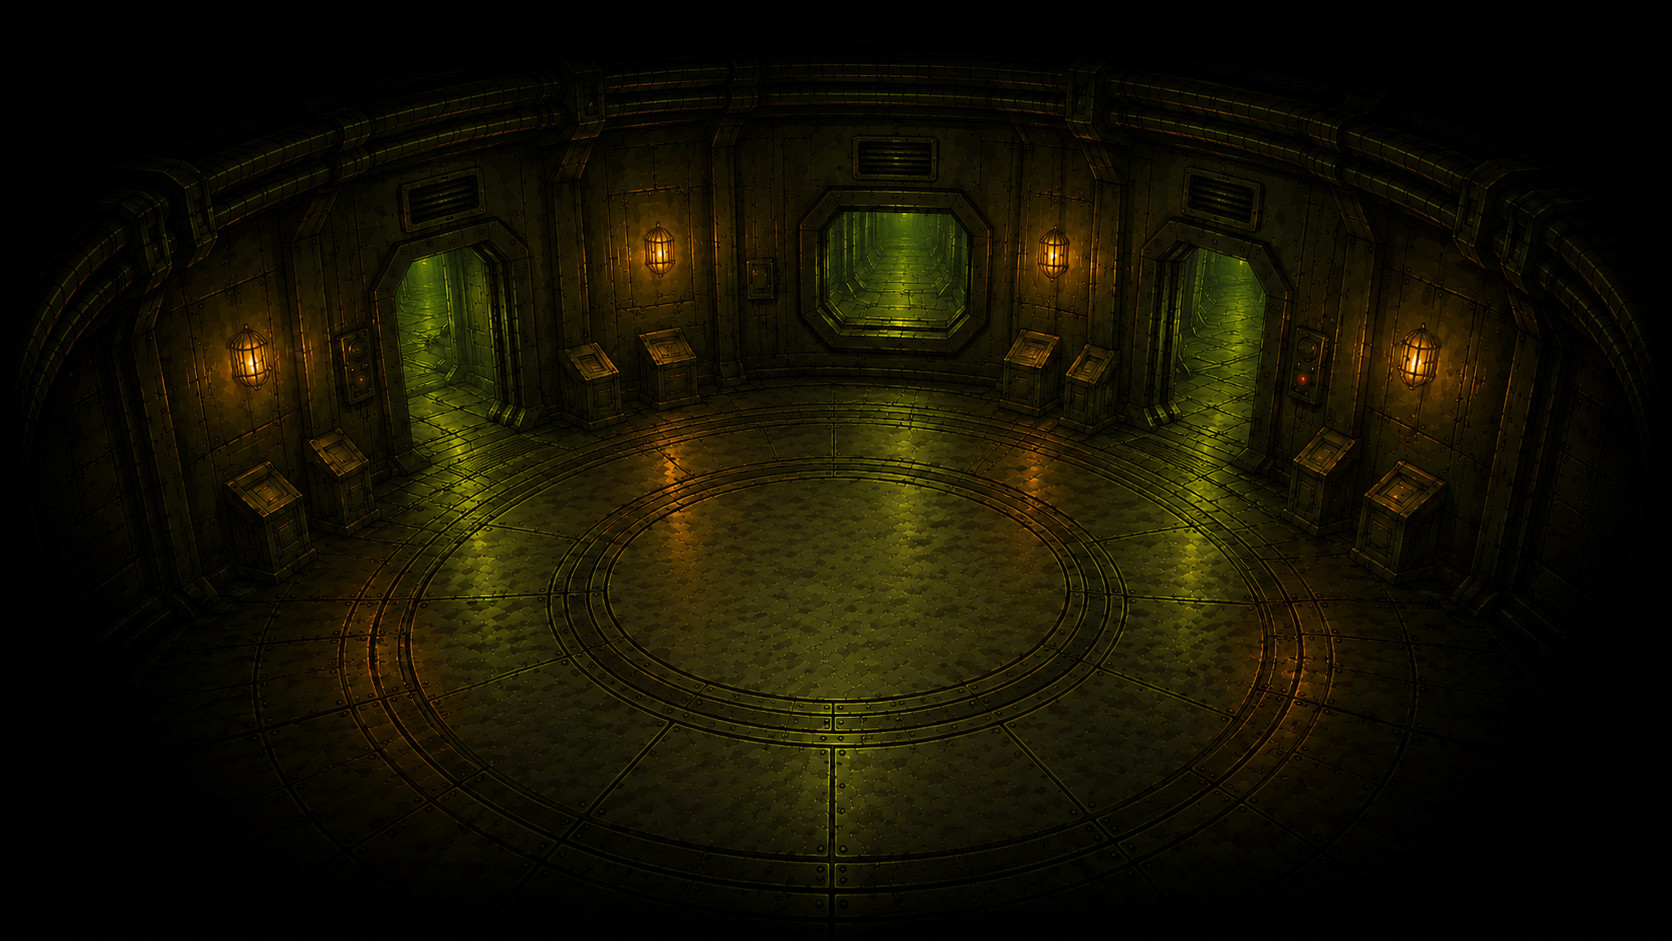
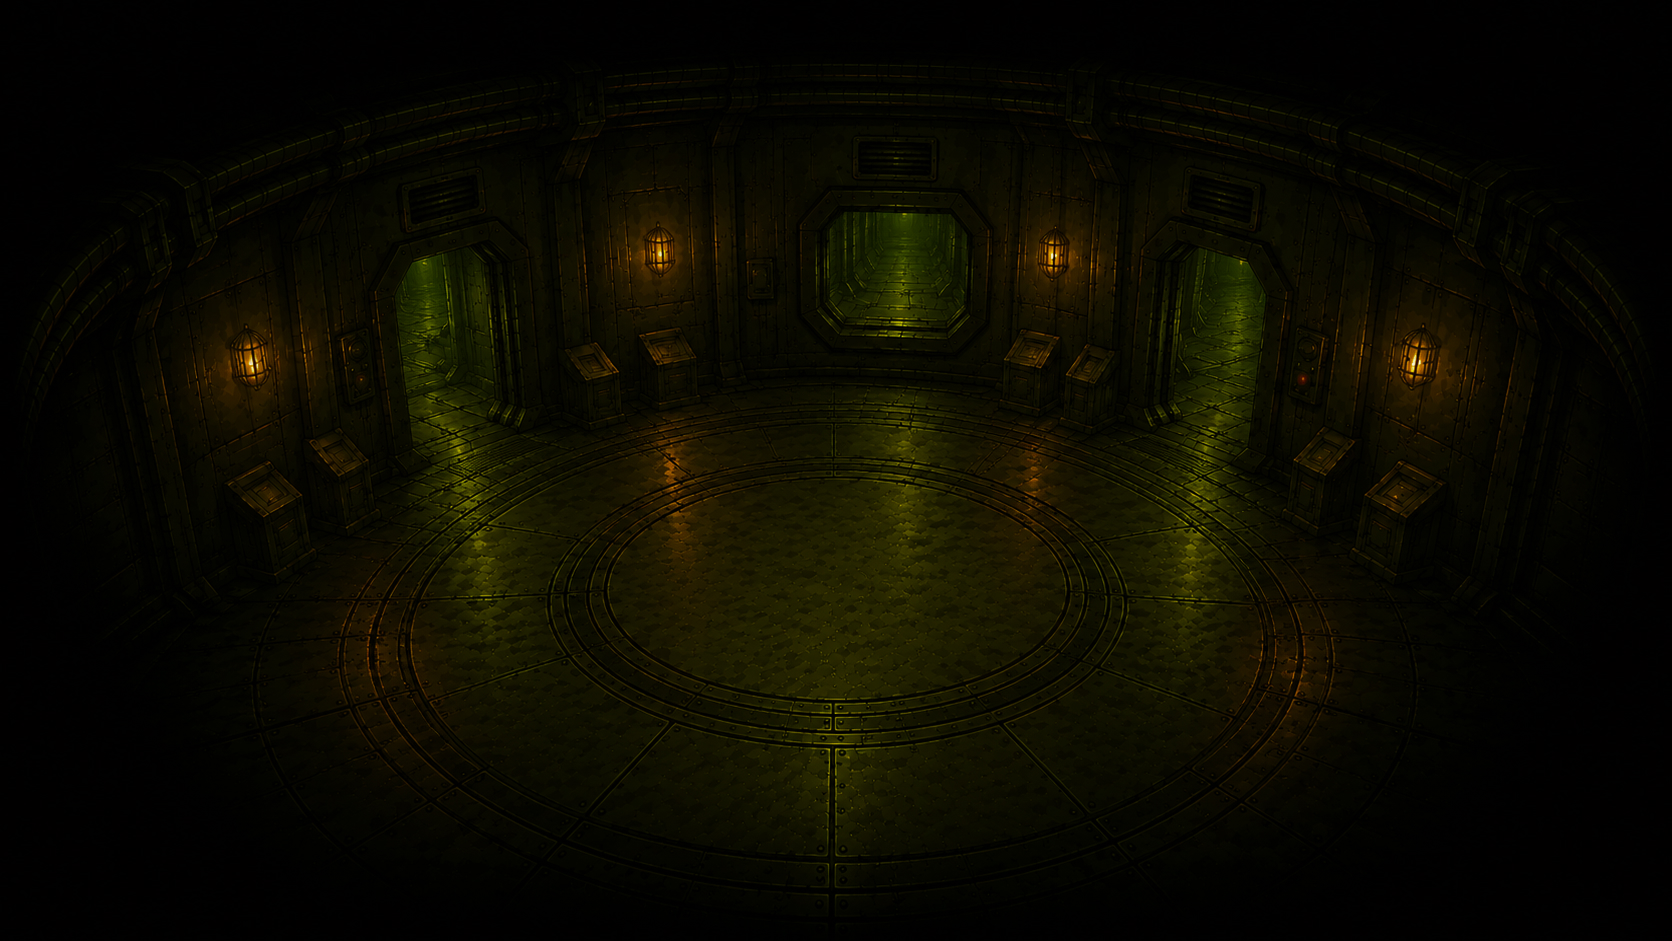
feat: arena room backdrop

diff --git a/src/client/components/app/RoomBackdrop.tsx b/src/client/components/app/RoomBackdrop.tsx
@@ -23,7 +23,7 @@ import {getWindowHeight, getWindowWidth, tableCenterX, tableCenterY} from 'clien
 const imageWidth = 1672;
 const imageHeight = 941;
 const focusX = 0.5;
-const focusY = 0.647;
+const focusY = 0.6;
 
 // Масштаб: не мельче, чем нужно, чтобы закрыть окно по каждой из осей. До всех
 // четырёх краёв картинку ПОСЛЕ привязки к кругу не дотянуть: под столом на экране
